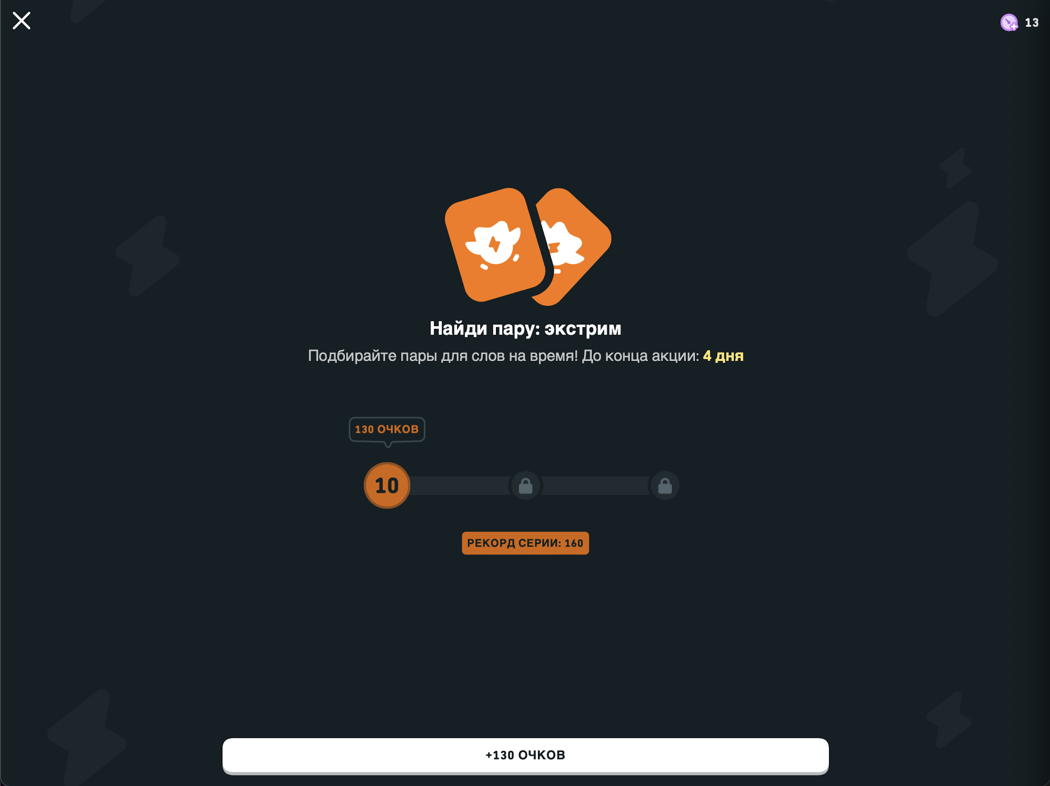
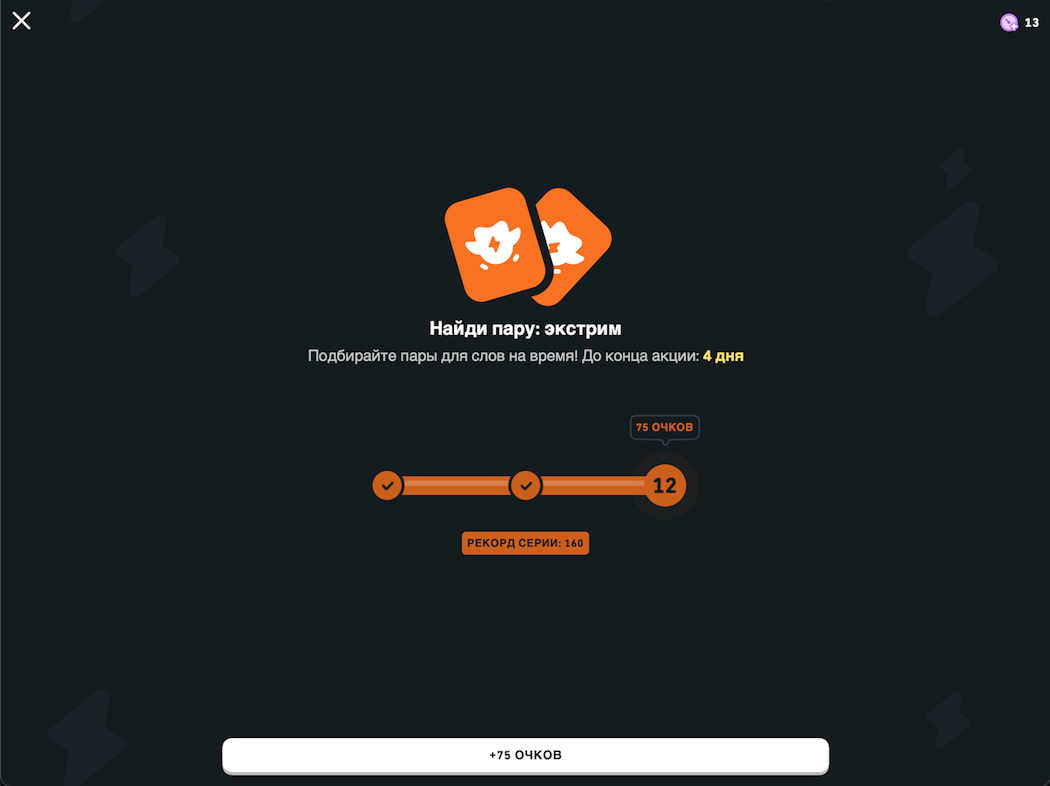
Extreme screen and double points screen

diff --git a/screen/intermediate.py b/screen/intermediate.py
@@ -1,6 +1,6 @@
 import time
 
-from helpers.utils import click, get_pixel
+from helpers.utils import click, get_pixel, take_screenshot
 from screen.start import StartScreen
 
 
@@ -9,7 +9,6 @@ class IntermediateScreen:
     DUOLINGO_BLUE_1 = (70, 182, 243)
     DUOLINGO_BLUE_2 = (108, 190, 243)
     DUOLINGO_BLUE_3 = (107, 190, 243)
-    DUOLINGO_WHITE = (255, 255, 255)
 
     def __init__(self):
         pass
@@ -23,12 +22,13 @@ class IntermediateScreen:
             cls.DUOLINGO_BLUE_1,
             cls.DUOLINGO_BLUE_2,
             cls.DUOLINGO_BLUE_3,
-            cls.DUOLINGO_WHITE,
         ):
             return True
         return False
 
     def next(self):
+        from screen.extreme import ExtremeScreen
+
         print("Intermediate screen found, clicking next button")
         click(*self.NEXT_BUTTON)
         time.sleep(6)
@@ -36,6 +36,10 @@ class IntermediateScreen:
         if self.is_current():
             # the next screen is also intermediate, what a surprise
             return IntermediateScreen()
+
+        screenshot = take_screenshot()
+        if ExtremeScreen.is_current(screenshot):
+            return ExtremeScreen()
 
         return StartScreen()
 

diff --git a/screen/extreme.py b/screen/extreme.py
@@ -1,0 +1,36 @@
+import time
+
+from PIL.Image import Image
+
+from helpers.utils import get_image_pixel, click
+
+
+class ExtremeScreen:
+    LOGO_PIXEL = 530, 345
+    START_BUTTON = 666, 746
+
+    DUOLINGO_ORANGE = (247, 114, 35)
+    DUOLINGO_WHITE = (255, 255, 255)
+
+    @classmethod
+    def is_current(cls, screenshot: Image):
+        logo_color = get_image_pixel(screenshot, *cls.LOGO_PIXEL)
+        start_button_color = get_image_pixel(screenshot, *cls.START_BUTTON)
+        # print(f"logo_color: {logo_color}, start_button_color: {start_button_color}")
+        # should have an orange logo in the middle and a white start button
+        if (
+            logo_color == cls.DUOLINGO_ORANGE
+            and start_button_color == cls.DUOLINGO_WHITE
+        ):
+            return True
+
+        return False
+
+    def next(self):
+        from screen.start import StartScreen
+
+        print("Extreme screen found, clicking start button")
+        click(*self.START_BUTTON)
+        time.sleep(6)
+
+        return StartScreen()

diff --git a/screen/finish.py b/screen/finish.py
@@ -1,6 +1,6 @@
 import time
 
-from helpers.utils import click
+from helpers.utils import click, take_screenshot
 from screen.start import StartScreen
 
 
@@ -12,12 +12,17 @@ class FinishScreen:
 
     def next(self):
         from screen.intermediate import IntermediateScreen
+        from screen.extreme import ExtremeScreen
 
         click(*self.NEXT_BUTTON)
         time.sleep(6)
 
         if IntermediateScreen.is_current():
             return IntermediateScreen()
+
+        screenshot = take_screenshot()
+        if ExtremeScreen.is_current(screenshot):
+            return ExtremeScreen()
 
         return StartScreen()
 

diff --git a/screen/start.py b/screen/start.py
@@ -45,13 +45,14 @@ class StartScreen:
 
         Wait for next screen.
         """
+        from screen.double_points import DoublePointsScreen
+
         lvl = self.determine_lvl()
         print(f"Starting with lvl {lvl}")
 
         click(*self.START_BUTTON)
         time.sleep(4)
+        if DoublePointsScreen.is_current():
+            return DoublePointsScreen(lvl=lvl, chapter=0)
+
         return AttentionScreen(lvl=lvl, chapter=0)
-
-
-# TODO: StartSceen -> AttentionScreen -> GameScreen
-# TODO: StartSceen -> InermediateScreen -> AttentionScreen -> GameScreen

diff --git a/screen/double_points.py b/screen/double_points.py
@@ -1,0 +1,20 @@
+import time
+
+from helpers.utils import click
+from screen.attention import AttentionScreen
+from screen.intermediate import IntermediateScreen
+
+
+class DoublePointsScreen(IntermediateScreen):
+    def __init__(self, lvl: int, chapter: int):
+        self.lvl = lvl
+        self.chapter = chapter
+        super().__init__()
+
+    def next(self):
+        print("DoublePoints screen found, buying double points 💰")
+
+        click(*self.NEXT_BUTTON)
+        time.sleep(4)
+
+        return AttentionScreen(lvl=self.lvl, chapter=self.chapter)

diff --git a/tests/test_screen.py b/tests/test_screen.py
@@ -1,0 +1,15 @@
+from helpers.utils import open_image
+from screen.extreme import ExtremeScreen
+import pytest
+
+
+@pytest.mark.parametrize(
+    "filename, expected",
+    [
+        ("screen/extreme.png", True),
+        ("screen/start.png", False),
+    ],
+)
+def test_extreme_screen_is_current(filename: str, expected: bool) -> None:
+    screenshot = open_image(filename)
+    assert ExtremeScreen.is_current(screenshot) == expected

diff --git a/helpers/utils.py b/helpers/utils.py
@@ -64,6 +64,11 @@ def click(x: int, y: int) -> None:
     pyautogui.click(x, y + MENUBAR_HEIGHT)
 
 
+def get_image_pixel(image: Image.Image, x: int, y: int) -> tuple[int, int, int]:
+    _pixel = image.getpixel((x, y))
+    return _pixel[0], _pixel[1], _pixel[2]
+
+
 def get_pixel(x: int, y: int) -> tuple[int, int, int]:
     """Get pixel color on x, y coordinates.
 
